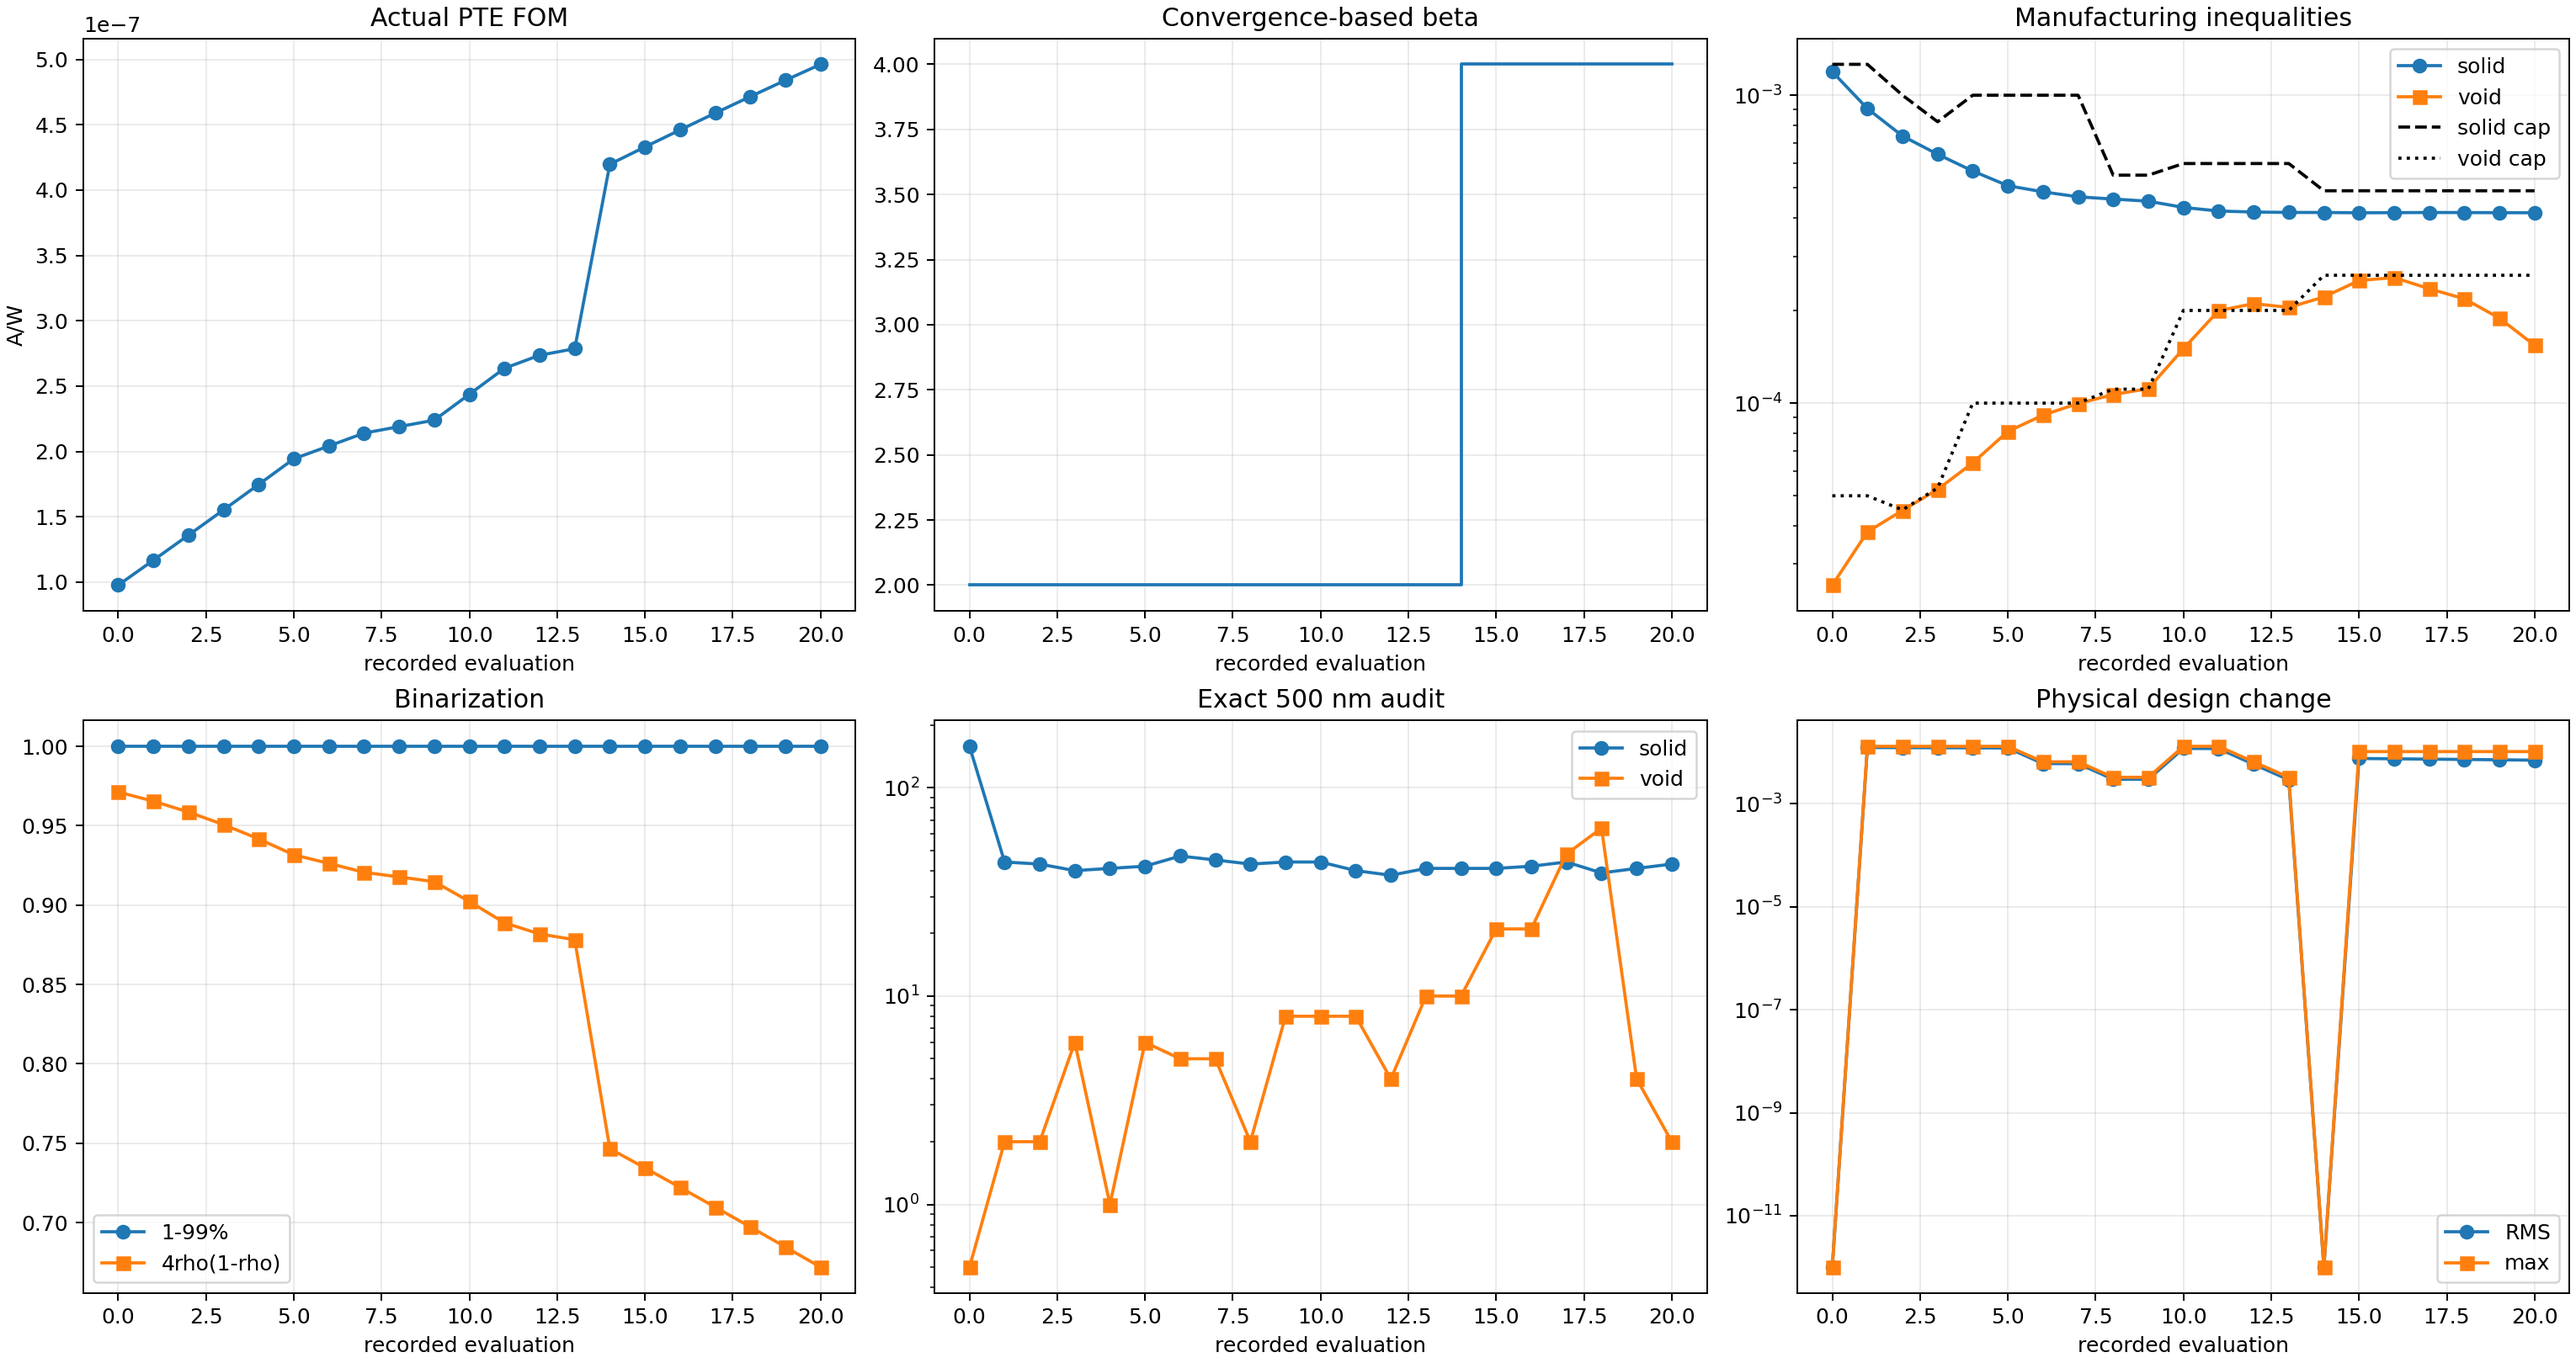
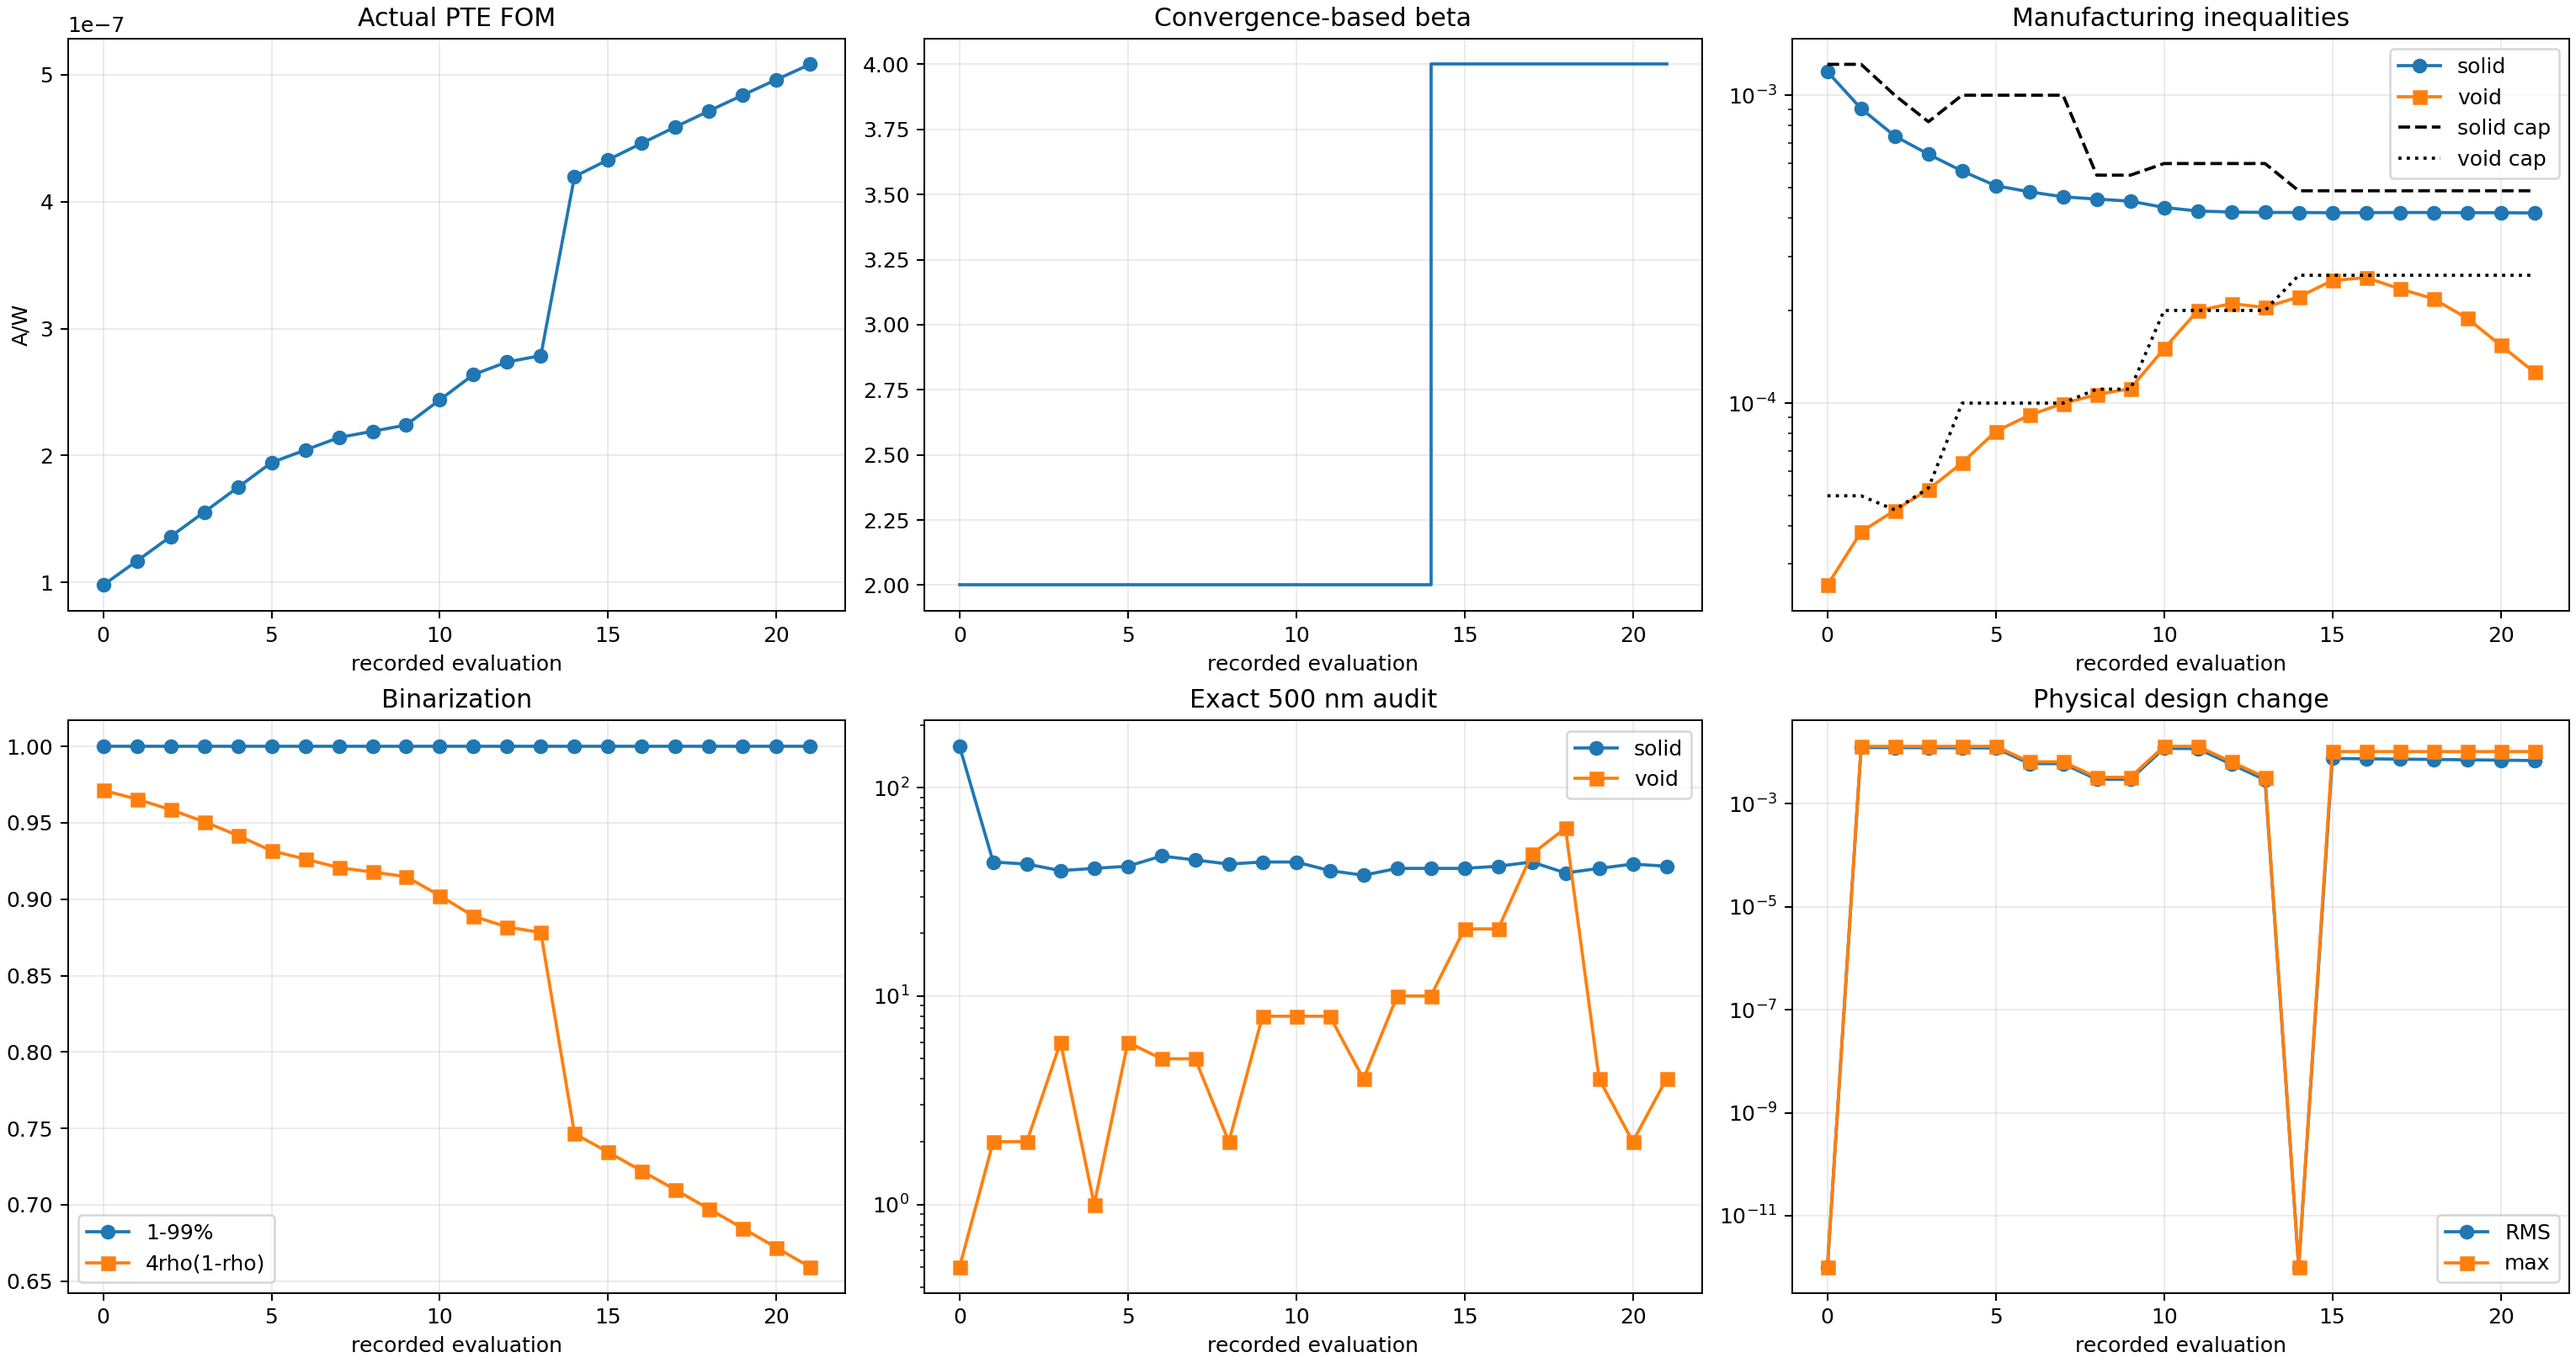
Record Run 005 run005_b004_s007_g020_accepted_mma

diff --git a/photothermal_pte/optimization_runs/run_005_lowbeta_topology_exploration_pilot/results/OPTIMIZATION_REPORT.md b/photothermal_pte/optimization_runs/run_005_lowbeta_topology_exploration_pilot/results/OPTIMIZATION_REPORT.md
@@ -2,12 +2,12 @@
 
 Status: `RUNNING_RUN005_FULL_BINARY_BETA_CONTINUATION`
 
-Current stage: beta=4, accepted stage iteration=6, global iteration=19.
+Current stage: beta=4, accepted stage iteration=7, global iteration=20.
 
 Constraint contract: `soft_disk_opening_500nm_from_iteration_zero_v5`.
 
-Actual FOM: `4.962758196812e-07 A/W`. Fixed-cap solid/void constraints: `4.152881e-04` / `1.541113e-04` with caps `4.894159e-04` / `2.601193e-04`.
+Actual FOM: `5.082867104904e-07 A/W`. Fixed-cap solid/void constraints: `4.146155e-04` / `1.259972e-04` with caps `4.894159e-04` / `2.601193e-04`.
 
-Exact 500 nm bad cells: solid `43`, void `2`. Stage convergence: `False` (recent FOM/density changes have not plateaued).
+Exact 500 nm bad cells: solid `42`, void `4`. Stage convergence: `False` (recent FOM/density changes have not plateaued).
 
 Beta advances only after the stage FOM/density plateau. The run is not complete until the projected-binary and exact 500 nm gates pass and a fresh thresholded-binary GPU/CUDA evaluation succeeds.
